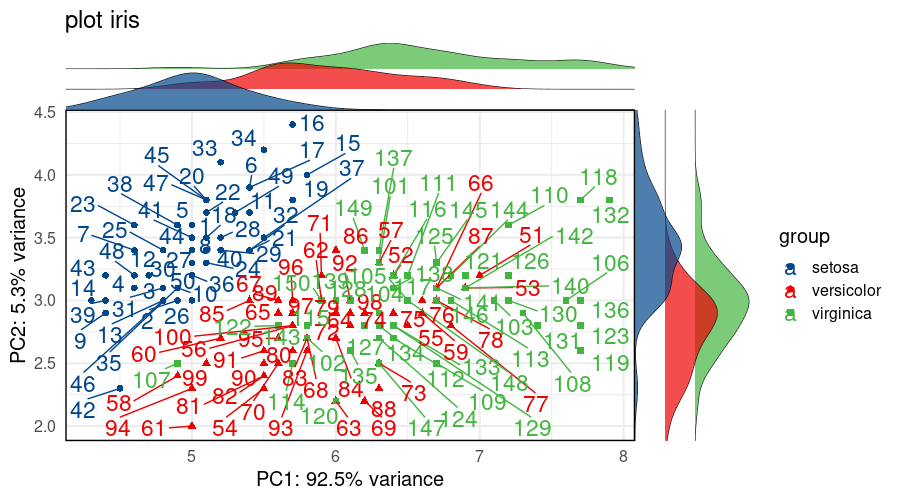
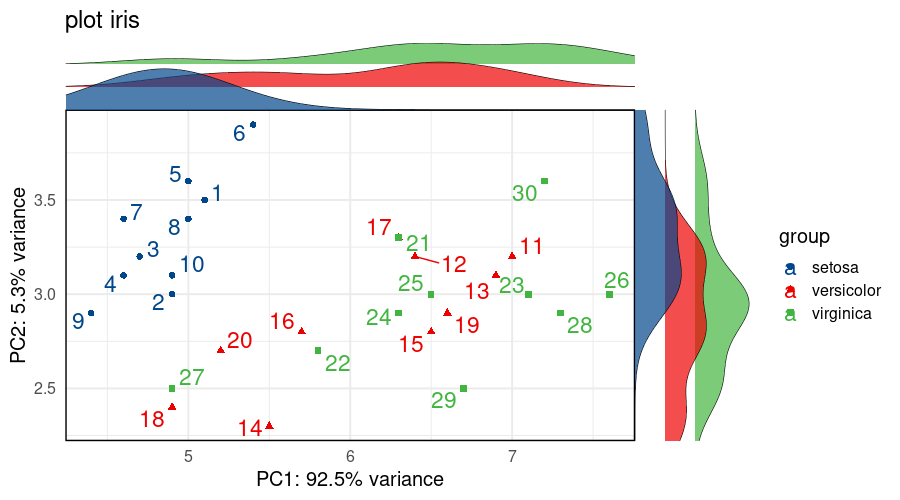
modify PCA example

diff --git a/README.md b/README.md
@@ -71,9 +71,11 @@ ggScatRidges(x = PC1, y = PC2, group= iris$Species,
 
 ``` r
 library(ggScatRidges)
+library(dplyr)
 
 iris2 <- iris[,c(1,2,5)] ## The first column will be used as 'x', the second as 'y' and the third as group for plotting.
-iris2$name <- c(1:150) ## The fourth column is used for naming.
+iris2 <- iris2 %>% group_by(Species) %>% slice(1:10)
+iris2$name <- c(1:30) ## The fourth column is used for naming.
 
 ggScatRidges(x = iris2, 
              color = "lancet", ridges = TRUE, title = "plot iris",
